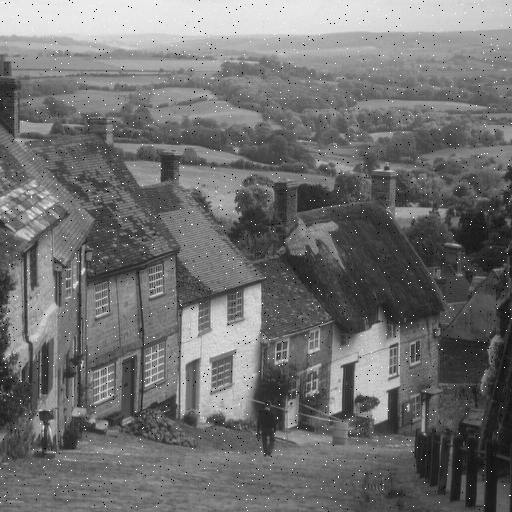
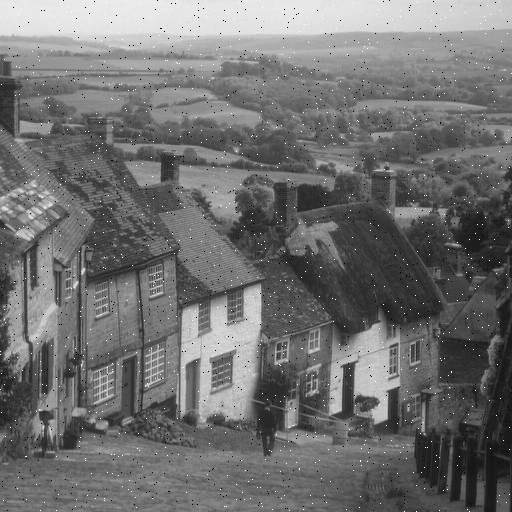
fixes shape error in jpg images

diff --git a/distortions.py b/distortions.py
@@ -47,11 +47,11 @@ def contrast_stretching(image):
     return output
 
 '''Goldhill image and its distortions'''
-goldhill = cv2.imread('imgs/goldhill/goldhill.png',0)
+goldhill = cv2.imread('imgs/goldhill/goldhill.png',-1)
 #jpg compression
 encode_param = [int(cv2.IMWRITE_JPEG_QUALITY), 80]
 result, encimg = cv2.imencode('.jpg', goldhill, encode_param)
-goldhill_jpg = cv2.imdecode(encimg, 1)
+goldhill_jpg = cv2.imdecode(encimg, 0)
 cv2.imwrite('imgs/goldhill/goldhill_jpg.png',goldhill_jpg)
 #gaussian noise
 goldhill_gaussian = gauss(goldhill)
@@ -74,7 +74,7 @@ lena = cv2.imread('imgs/lena/lena.png',0)
 #jpg compression
 encode_param = [int(cv2.IMWRITE_JPEG_QUALITY), 80]
 result, encimg = cv2.imencode('.jpg', lena, encode_param)
-lena_jpg = cv2.imdecode(encimg, 1)
+lena_jpg = cv2.imdecode(encimg, 0)
 cv2.imwrite('imgs/lena/lena_jpg.png',lena_jpg)
 #gaussian noise
 lena_gaussian = gauss(lena)
@@ -97,7 +97,7 @@ couple = cv2.imread('imgs/couple/couple.png',0)
 #jpg compression
 encode_param = [int(cv2.IMWRITE_JPEG_QUALITY), 80]
 result, encimg = cv2.imencode('.jpg', couple, encode_param)
-couple_jpg = cv2.imdecode(encimg, 1)
+couple_jpg = cv2.imdecode(encimg, 0)
 cv2.imwrite('imgs/couple/couple_jpg.png',couple_jpg)
 #gaussian noise
 couple_gaussian = gauss(couple)
